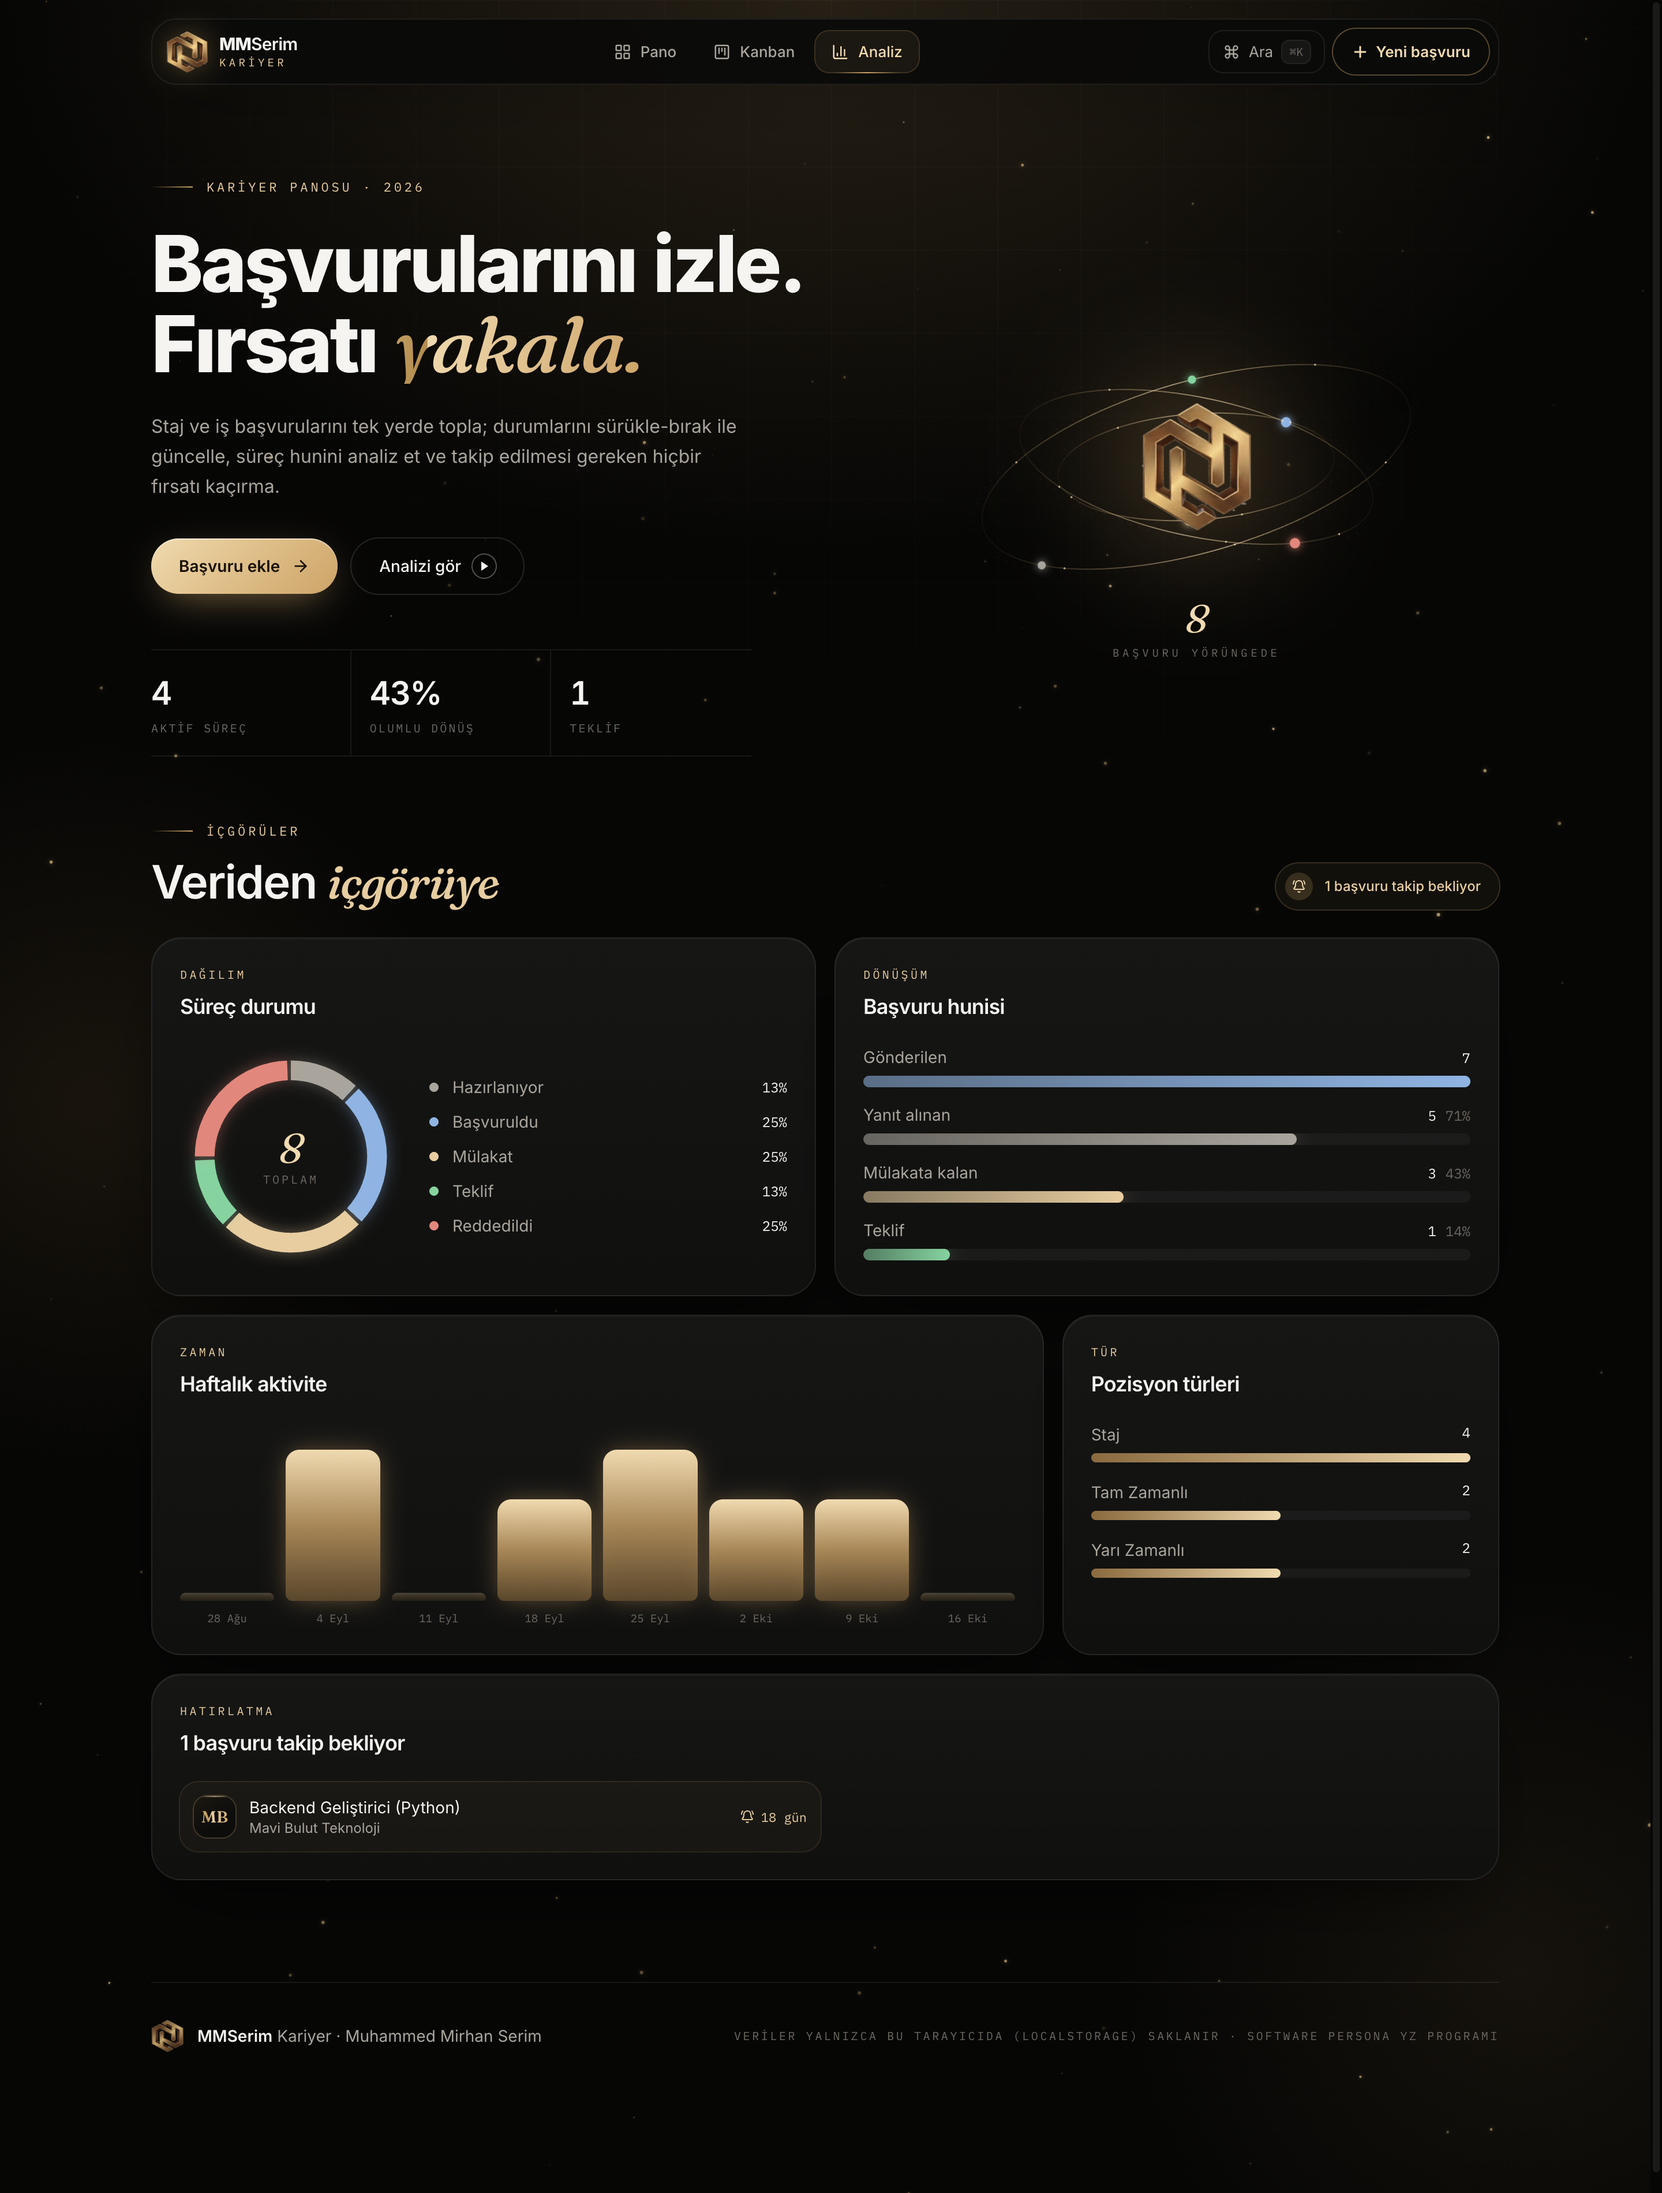
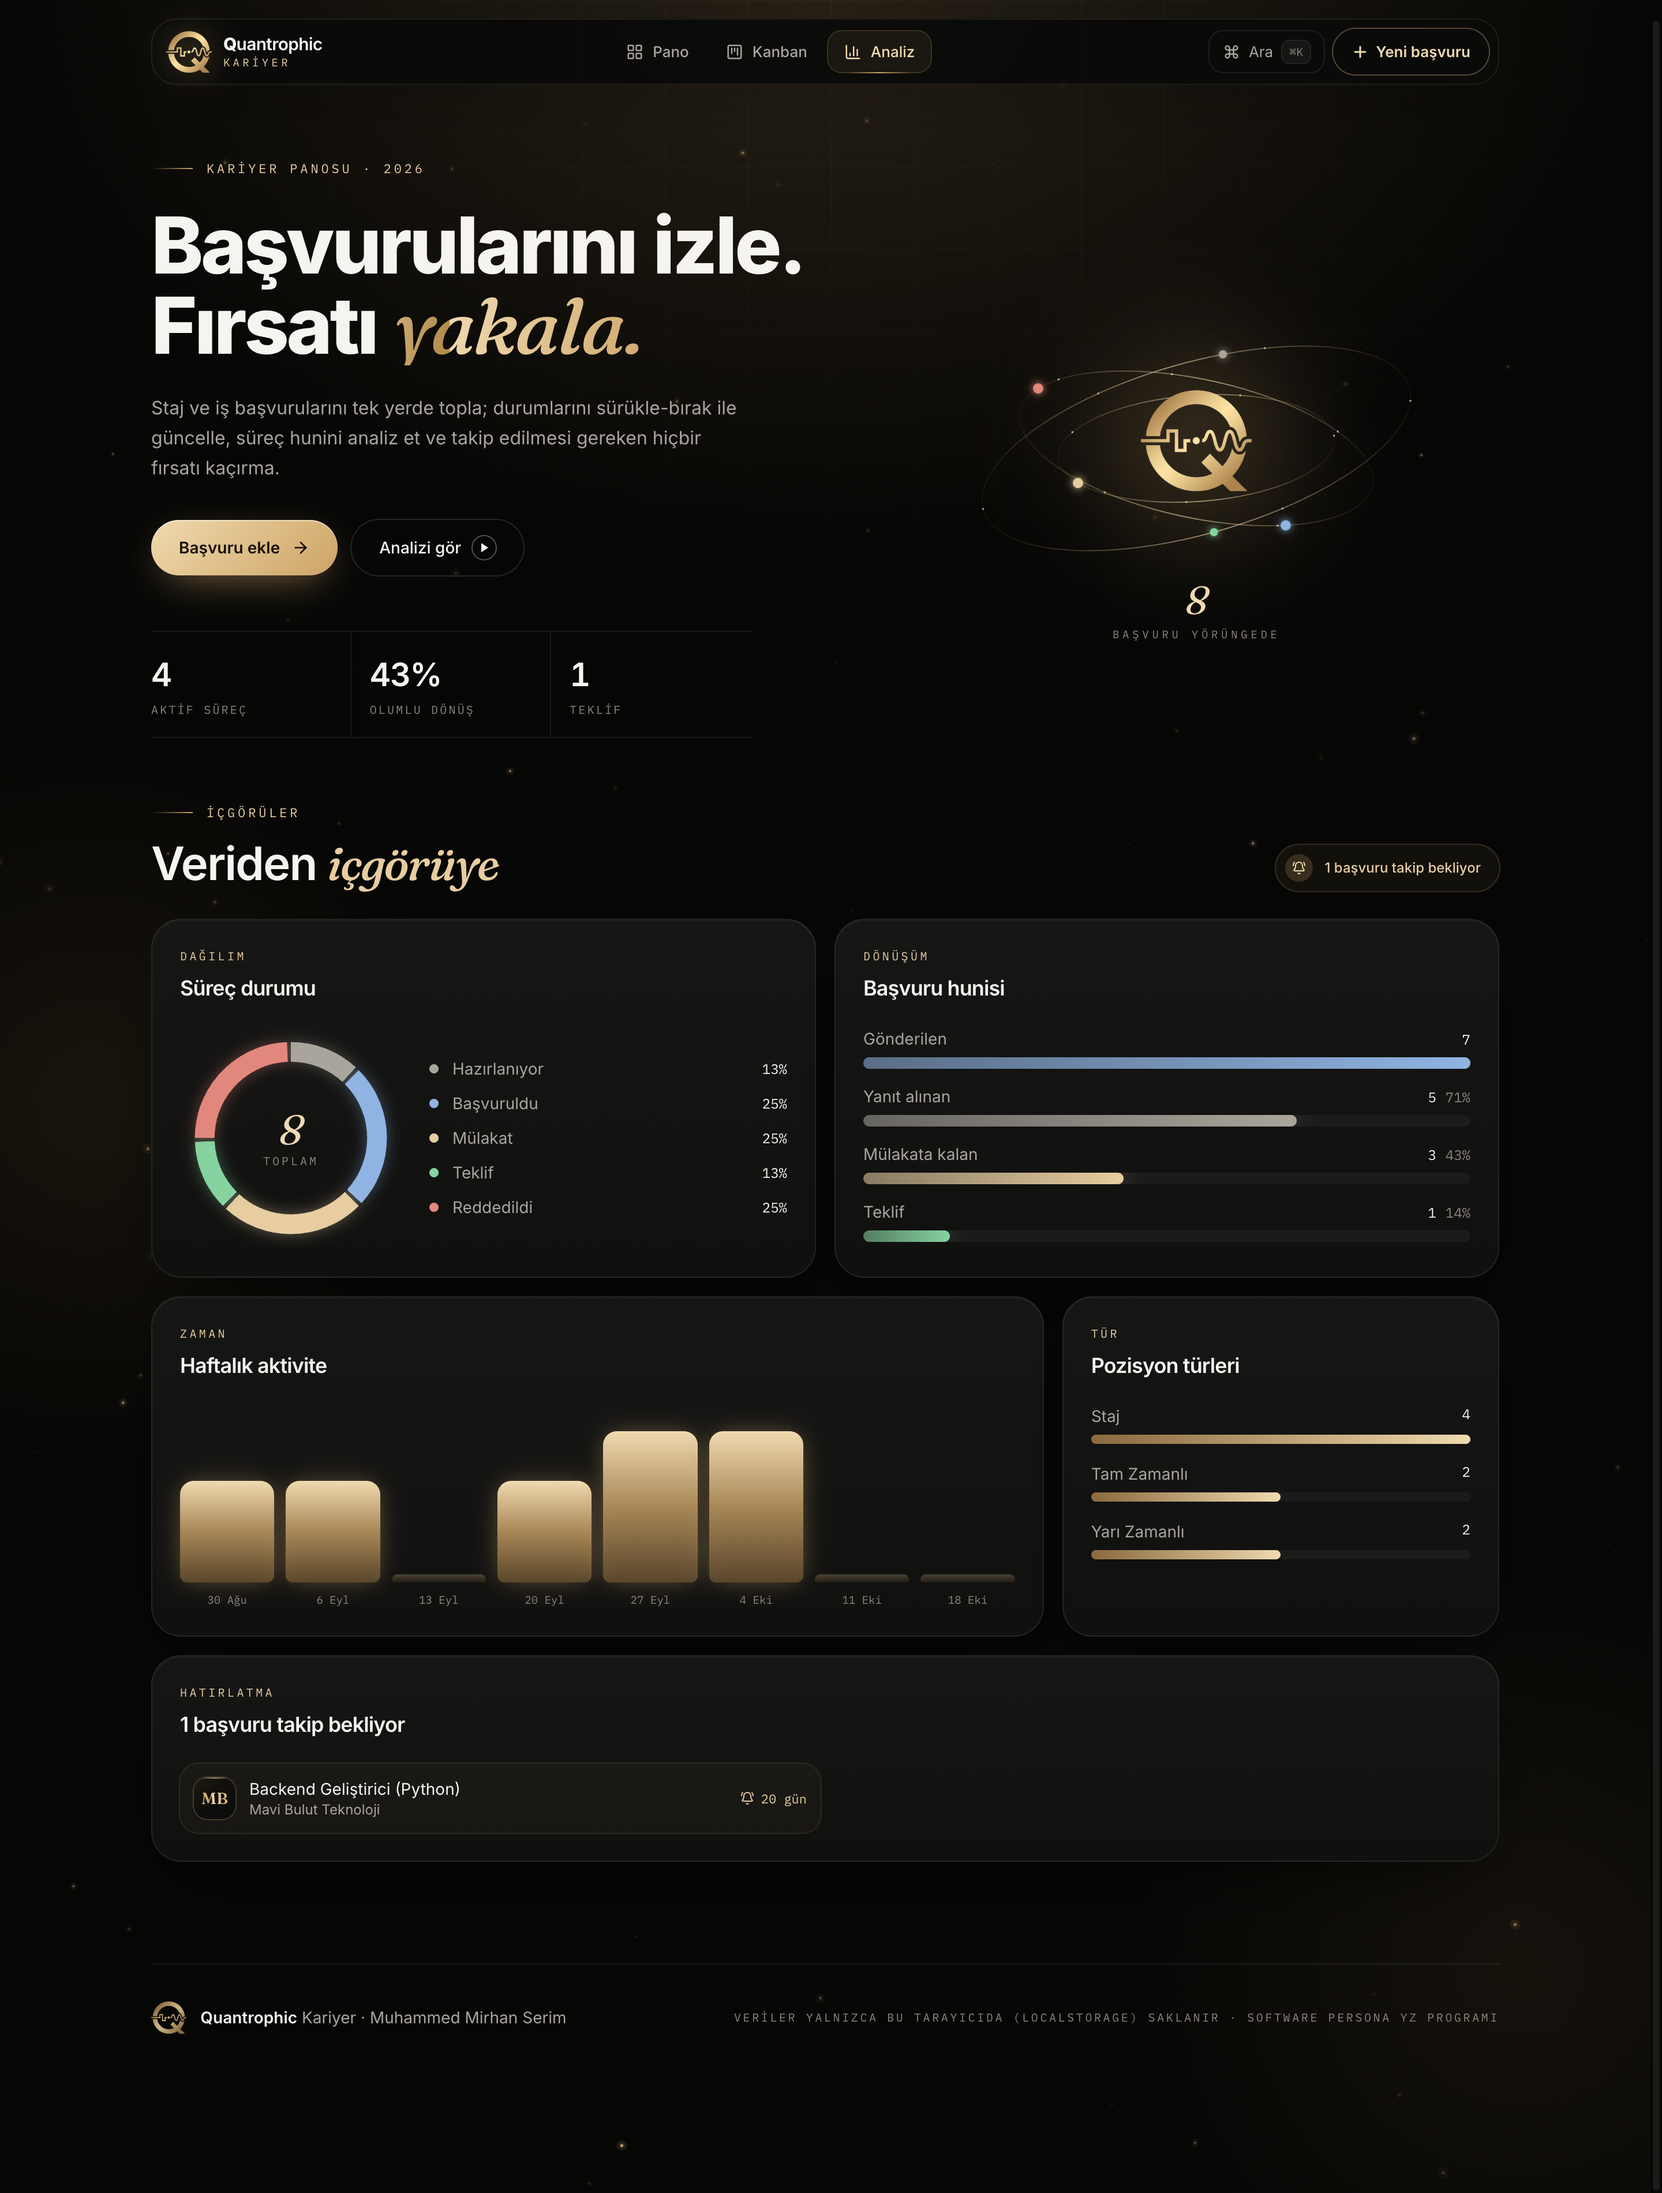
Marka adı Quantrophic olarak güncellendi: yeni Q logosu, ikonlar, OG kartı ve ekran görüntüleri

diff --git a/index.html b/index.html
@@ -5,11 +5,11 @@
     <link rel="icon" type="image/png" href="/logo.png" />
     <meta name="viewport" content="width=device-width, initial-scale=1.0" />
     <meta name="theme-color" content="#060605" />
-    <meta name="description" content="MMSerim Kariyer · Staj ve iş başvurularını tek yerden takip eden React uygulaması: pano, kanban ve analiz görünümleri." />
+    <meta name="description" content="Quantrophic Kariyer · Staj ve iş başvurularını tek yerden takip eden React uygulaması: pano, kanban ve analiz görünümleri." />
     <link rel="apple-touch-icon" href="/apple-touch-icon.png" />
     <meta property="og:type" content="website" />
     <meta property="og:url" content="https://basvuru-takip-mmserim.netlify.app/" />
-    <meta property="og:title" content="Başvuru Takip · MMSerim Kariyer" />
+    <meta property="og:title" content="Başvuru Takip · Quantrophic Kariyer" />
     <meta property="og:description" content="Staj ve iş başvurularını tek yerde topla: pano, sürükle-bırak kanban ve analiz görünümleri." />
     <meta property="og:image" content="https://basvuru-takip-mmserim.netlify.app/og.png" />
     <meta property="og:image:width" content="1200" />
@@ -19,7 +19,7 @@
     <link rel="preconnect" href="https://fonts.googleapis.com" />
     <link rel="preconnect" href="https://fonts.gstatic.com" crossorigin />
     <link href="https://fonts.googleapis.com/css2?family=Fraunces:ital,wght@0,500;0,600;1,400;1,500&family=Inter:wght@400;500;600;700;800&family=IBM+Plex+Mono:wght@400;500&display=swap" rel="stylesheet" />
-    <title>Başvuru Takip · MMSerim Kariyer</title>
+    <title>Başvuru Takip · Quantrophic Kariyer</title>
   </head>
   <body>
     <div id="root"></div>

diff --git a/src/pages/AnaSayfa.jsx b/src/pages/AnaSayfa.jsx
@@ -329,8 +329,8 @@ export default function AnaSayfa() {
       <footer className="mx-auto mt-16 max-w-[1200px] px-4 pb-24">
         <div className="flex flex-col items-center justify-between gap-4 border-t border-white/[0.07] pt-8 text-center sm:flex-row sm:text-left">
           <div className="flex items-center gap-3">
-            <img src="/logo.png" alt="" width="24" height="28" className="h-7 w-auto opacity-80" />
-            <span className="text-sm text-soluk"><b className="font-semibold text-metin">MMSerim</b> Kariyer · Muhammed Mirhan Serim</span>
+            <img src="/logo.png" alt="" width="26" height="24" className="h-7 w-auto opacity-80" />
+            <span className="text-sm text-soluk"><b className="font-semibold text-metin">Quantrophic</b> Kariyer · Muhammed Mirhan Serim</span>
           </div>
           <span className="font-mono text-[10px] uppercase tracking-[0.18em] text-sonuk">Veriler yalnızca bu tarayıcıda (LocalStorage) saklanır · Software Persona YZ Programı</span>
         </div>

diff --git a/src/components/UstMenu.jsx b/src/components/UstMenu.jsx
@@ -13,9 +13,9 @@ export default function UstMenu({ gorunum, onGorunum, onPalet, onYeni }) {
     >
       <nav className="cam flex items-center gap-3 rounded-[22px] py-2 pl-3 pr-2 shadow-[0_20px_50px_-25px_rgb(0_0_0/0.9)]">
         <a href="#" className="flex items-center gap-2.5 pr-2">
-          <img src="/logo.png" alt="" width="31" height="36" className="h-9 w-auto drop-shadow-[0_0_12px_rgb(205_164_104/0.45)]" />
+          <img src="/logo.png" alt="" width="40" height="36" className="h-9 w-auto drop-shadow-[0_0_12px_rgb(205_164_104/0.45)]" />
           <span className="leading-none">
-            <span className="block text-[15px] font-semibold tracking-tight text-metin"><b className="font-extrabold">MM</b>Serim</span>
+            <span className="block text-[15px] font-semibold tracking-tight text-metin"><b className="font-extrabold">Q</b>uantrophic</span>
             <span className="mt-1 block font-mono text-[9.5px] tracking-[0.28em] text-altin-soluk">KARİYER</span>
           </span>
         </a>

diff --git a/src/interfaces/basvuru.js b/src/interfaces/basvuru.js
@@ -16,7 +16,7 @@
 export const DURUMLAR = ['Hazırlanıyor', 'Başvuruldu', 'Mülakat', 'Teklif', 'Reddedildi']
 export const TURLER = ['Staj', 'Tam Zamanlı', 'Yarı Zamanlı']
 
-/** Her durumun rengi ve rozet sınıfları (MMSerim sıcak paleti). */
+/** Her durumun rengi ve rozet sınıfları (Quantrophic sıcak paleti). */
 export const DURUM_META = {
   Hazırlanıyor: { renk: '#a9a59c', aciklama: 'Belgeler hazırlanıyor', rozet: 'bg-[#a9a59c]/10 text-[#c8c5be] ring-[#a9a59c]/25' },
   Başvuruldu: { renk: '#8fb4e3', aciklama: 'Yanıt bekleniyor', rozet: 'bg-[#8fb4e3]/10 text-[#b9d0ee] ring-[#8fb4e3]/30' },

diff --git a/src/components/Yorunge.jsx b/src/components/Yorunge.jsx
@@ -9,7 +9,7 @@ const YORUNGELER = [
 ]
 const elipsYolu = (rx, ry) => `M ${rx},0 A ${rx},${ry} 0 1 1 ${-rx},0 A ${rx},${ry} 0 1 1 ${rx},0`
 
-/** MMSerim logosunun etrafında, her durumu temsil eden ışık noktalarının döndüğü yörünge görseli. */
+/** Quantrophic logosunun etrafında, her durumu temsil eden ışık noktalarının döndüğü yörünge görseli. */
 export default function Yorunge({ basvurular }) {
   const say = (d) => basvurular.filter((b) => b.durum === d).length
 

diff --git a/src/index.css b/src/index.css
@@ -1,6 +1,6 @@
 @import "tailwindcss";
 
-/* MMSerim marka paleti: gece siyahı + şampanya altını */
+/* Quantrophic marka paleti: gece siyahı + şampanya altını */
 @theme {
   --font-sans: "Inter", ui-sans-serif, system-ui, -apple-system, "Segoe UI", sans-serif;
   --font-serif: "Fraunces", ui-serif, Georgia, serif;

diff --git a/README.md b/README.md
@@ -25,7 +25,7 @@ Staj ve iş başvurularını tek yerden yönetmek için geliştirilmiş bir Reac
 ![Analiz görünümü](docs/analiz.png)
 
 ### Deneyim
-- **MMSerim marka kimliği:** gece siyahı + şampanya altını palet, Inter / Fraunces / IBM Plex Mono
+- **Quantrophic marka kimliği:** gece siyahı + şampanya altını palet, Inter / Fraunces / IBM Plex Mono
 - **Animasyonlar (Motion):** kelime kelime açılan başlık, logo etrafında başvuru durumlarını gösteren yörünge, fareye tepki veren altın toz parçacıkları (canvas), kart hover'ında dönen altın kenar ışını ve imleç ışığı, yay fiziğiyle kayan sekmeler/filtreler, sayan göstergeler, "Teklif" durumunda konfeti
 - **⌘K komut paleti:** başvurular ve eylemler arasında klavyeyle arama
 - **Klavye kısayolları:** `N` yeni başvuru · `/` arama · `1` `2` `3` görünümler · `Esc` pencereyi kapat
